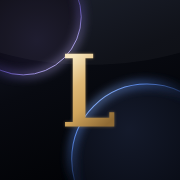
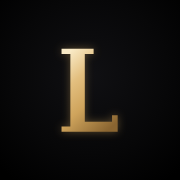
アイコンを黒背景にし、LINE 用は緑の吹き出しにする
- 背景の球のふち光（紫・青）をやめ、黒一色にした
- LINE 用は、それと分かるように緑（LINE の緑）の吹き出しにした。
  左下にしっぽを付け、上面に艶を入れている。
  公式ロゴそのものではなく、形と色を寄せた自作の絵
- LIFE の L は背景が空いたぶん少し大きくした

検証: 塗られている色をピクセル単位で数えて、LIFE が「黒背景＋金の L」、
LINE 用が「黒背景＋緑の吹き出し」になっていることを確認。

Claude-Session: https://claude.ai/code/session_011yLiAuTRPF991GYKM8apWE

diff --git a/index.html b/index.html
@@ -7,13 +7,13 @@
 <title>LIFE</title>
 <!-- ホーム画面に追加したときのアイコン。指定が無いと iOS が
      ページを縮小した「黒地に文字」の絵を勝手に作ってしまう -->
-<link rel="apple-touch-icon" href="assets/icon-180.png?v=dev725130">
-<link rel="icon" type="image/png" sizes="192x192" href="assets/icon-192.png?v=dev725130">
-<link rel="icon" type="image/svg+xml" href="assets/icon.svg?v=dev725130">
-<link rel="manifest" href="manifest.webmanifest?v=dev725130">
+<link rel="apple-touch-icon" href="assets/icon-180.png?v=dev725131">
+<link rel="icon" type="image/png" sizes="192x192" href="assets/icon-192.png?v=dev725131">
+<link rel="icon" type="image/svg+xml" href="assets/icon.svg?v=dev725131">
+<link rel="manifest" href="manifest.webmanifest?v=dev725131">
 <meta name="apple-mobile-web-app-title" content="LIFE">
 <meta name="apple-mobile-web-app-status-bar-style" content="black-translucent">
-<link rel="stylesheet" href="assets/app.css?v=dev725130">
+<link rel="stylesheet" href="assets/app.css?v=dev725131">
 </head>
 <body>
 <!-- 筋トレの 3D 風イラストで使う塗り（グラデーションと発光）。
@@ -115,11 +115,11 @@
     <div class="mask" id="mask"><div class="sheet" id="sheet"></div></div>
   </div>
 </div>
-<script src="assets/github.js?v=dev725130"></script>
-<script src="assets/places.js?v=dev725130"></script>
-<script src="assets/nearby.js?v=dev725130"></script>
-<script src="assets/workout.js?v=dev725130"></script>
-<script src="assets/demo-data.js?v=dev725130"></script>
-<script src="assets/app.js?v=dev725130"></script>
+<script src="assets/github.js?v=dev725131"></script>
+<script src="assets/places.js?v=dev725131"></script>
+<script src="assets/nearby.js?v=dev725131"></script>
+<script src="assets/workout.js?v=dev725131"></script>
+<script src="assets/demo-data.js?v=dev725131"></script>
+<script src="assets/app.js?v=dev725131"></script>
 </body>
 </html>
